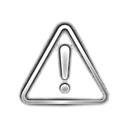
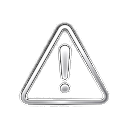
Make white neon stickers transparent for Discord selects
Knock out near-black so glow icons blend on dark Discord UI
instead of showing opaque black emoji squares.

diff --git a/tests/test_menu_banners.py b/tests/test_menu_banners.py
@@ -31,7 +31,7 @@ def check(ok, msg):
         print(f'  FAIL: {msg}')
 
 
-print('== stickers gold files ==')
+print('== stickers white neon files ==')
 for key in ME.STICKER_KEYS:
     p = ME.sticker_path(key)
     check(p and os.path.getsize(p) > 500, f'sticker {key}')
